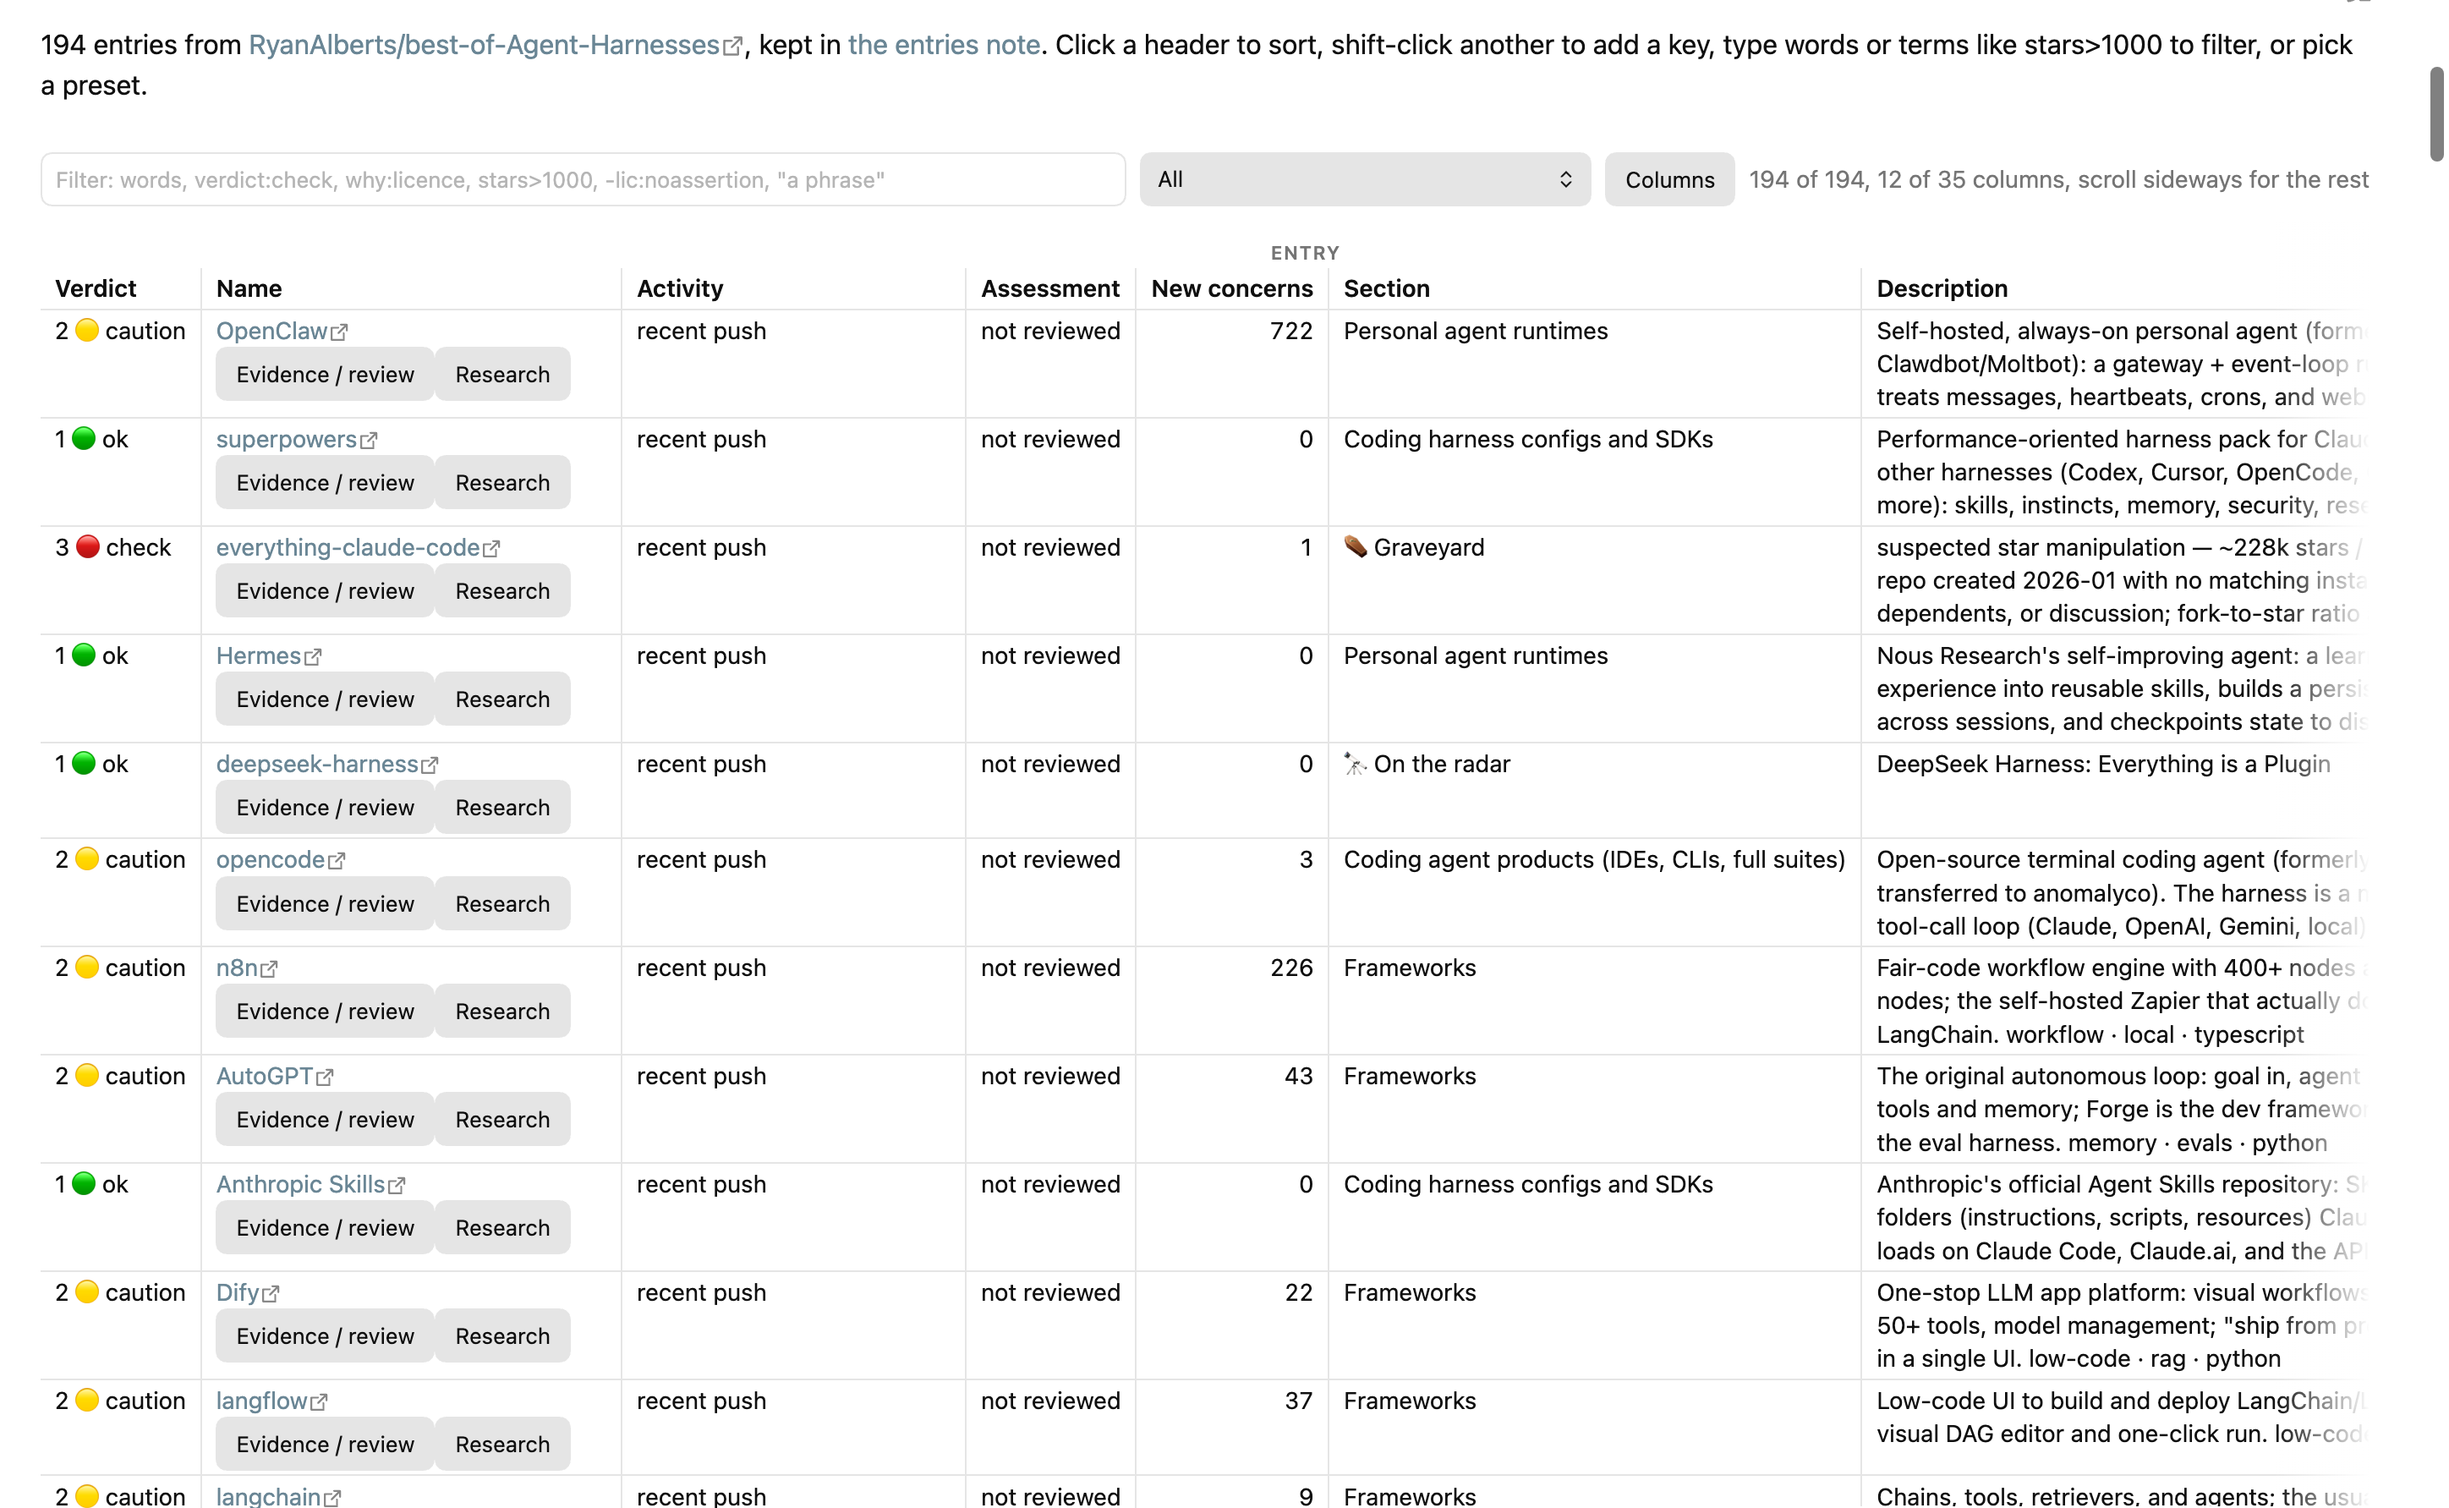
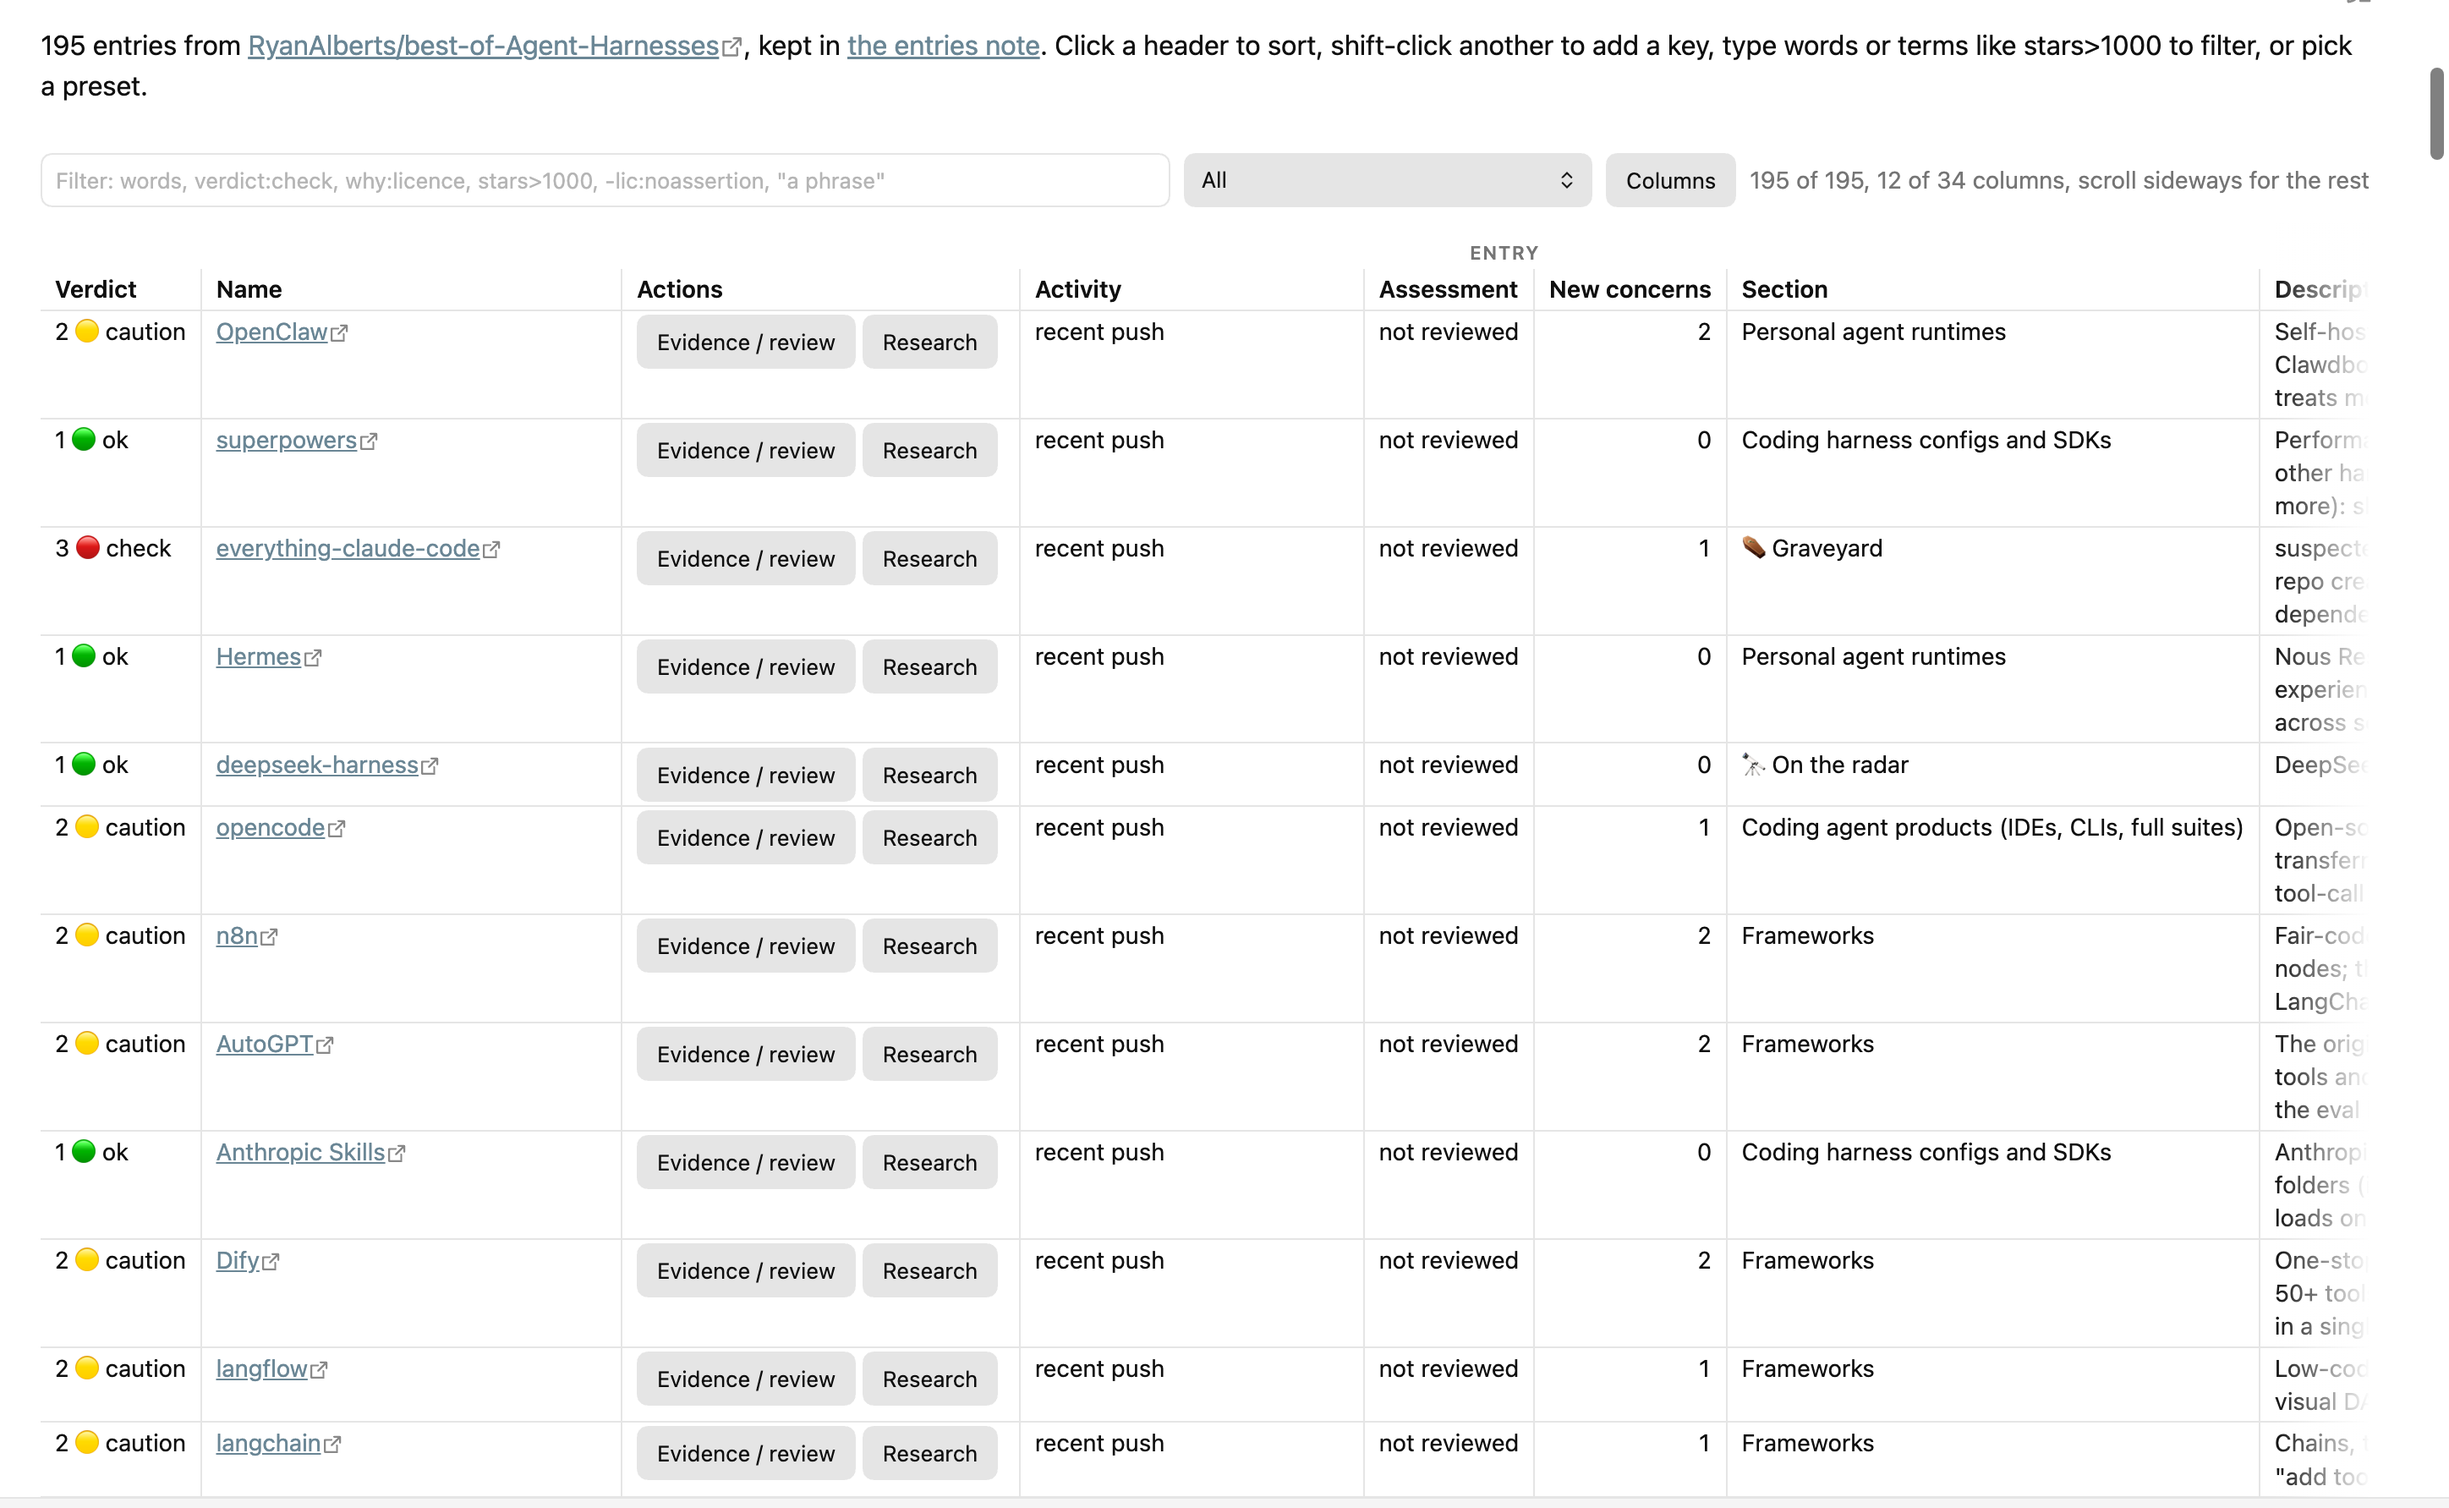
Recapture the table images with the Actions column

diff --git a/README.md b/README.md
@@ -4,7 +4,7 @@ Point Listkeeper at any awesome list or best-of list on GitHub and get a table i
 
 [![License](https://img.shields.io/github/license/amoslives/listkeeper)](LICENSE)
 
-![A list of 194 agent harnesses displayed as a table in Obsidian. Each row shows the verdict, the name, an Actions column with Evidence / review and Research, activity, assessment, new concerns, section and description; the remaining default columns are off-screen to the right.](screenshots/hero.png)
+![A list of 195 agent harnesses displayed as a table in Obsidian. Each row shows the verdict, the name, an Actions column with Evidence / review and Research, activity, assessment, new concerns, section and description; the remaining default columns are off-screen to the right.](screenshots/hero.png)
 
 An awesome list is a snapshot. The repositories behind it keep moving: some get archived, some pick up CVEs, some stop merging pull requests while their stars keep climbing. Listkeeper reads the list, asks GitHub about every repository in it, and keeps the answers in two notes that stay current on a schedule.
 
@@ -34,7 +34,7 @@ stars>1000 lang:rust pushed>2026-06-01
 
 All active terms must match a row. A leading `-` excludes matches.
 
-![The table filtered with verdict:check. Seven rows remain, and their sections, activity and new concerns show why each needs a check before installing.](screenshots/filter-check.png)
+![The table filtered with verdict:check. Five rows remain, and their sections, activity and new concerns show why each needs a check before installing.](screenshots/filter-check.png)
 
 Up to 14 columns are selected by default. A column appears only when at least one entry contains that field. Use **Columns**, or right-click the header row, to change the selection. Hidden columns can still be used in filters.
 
